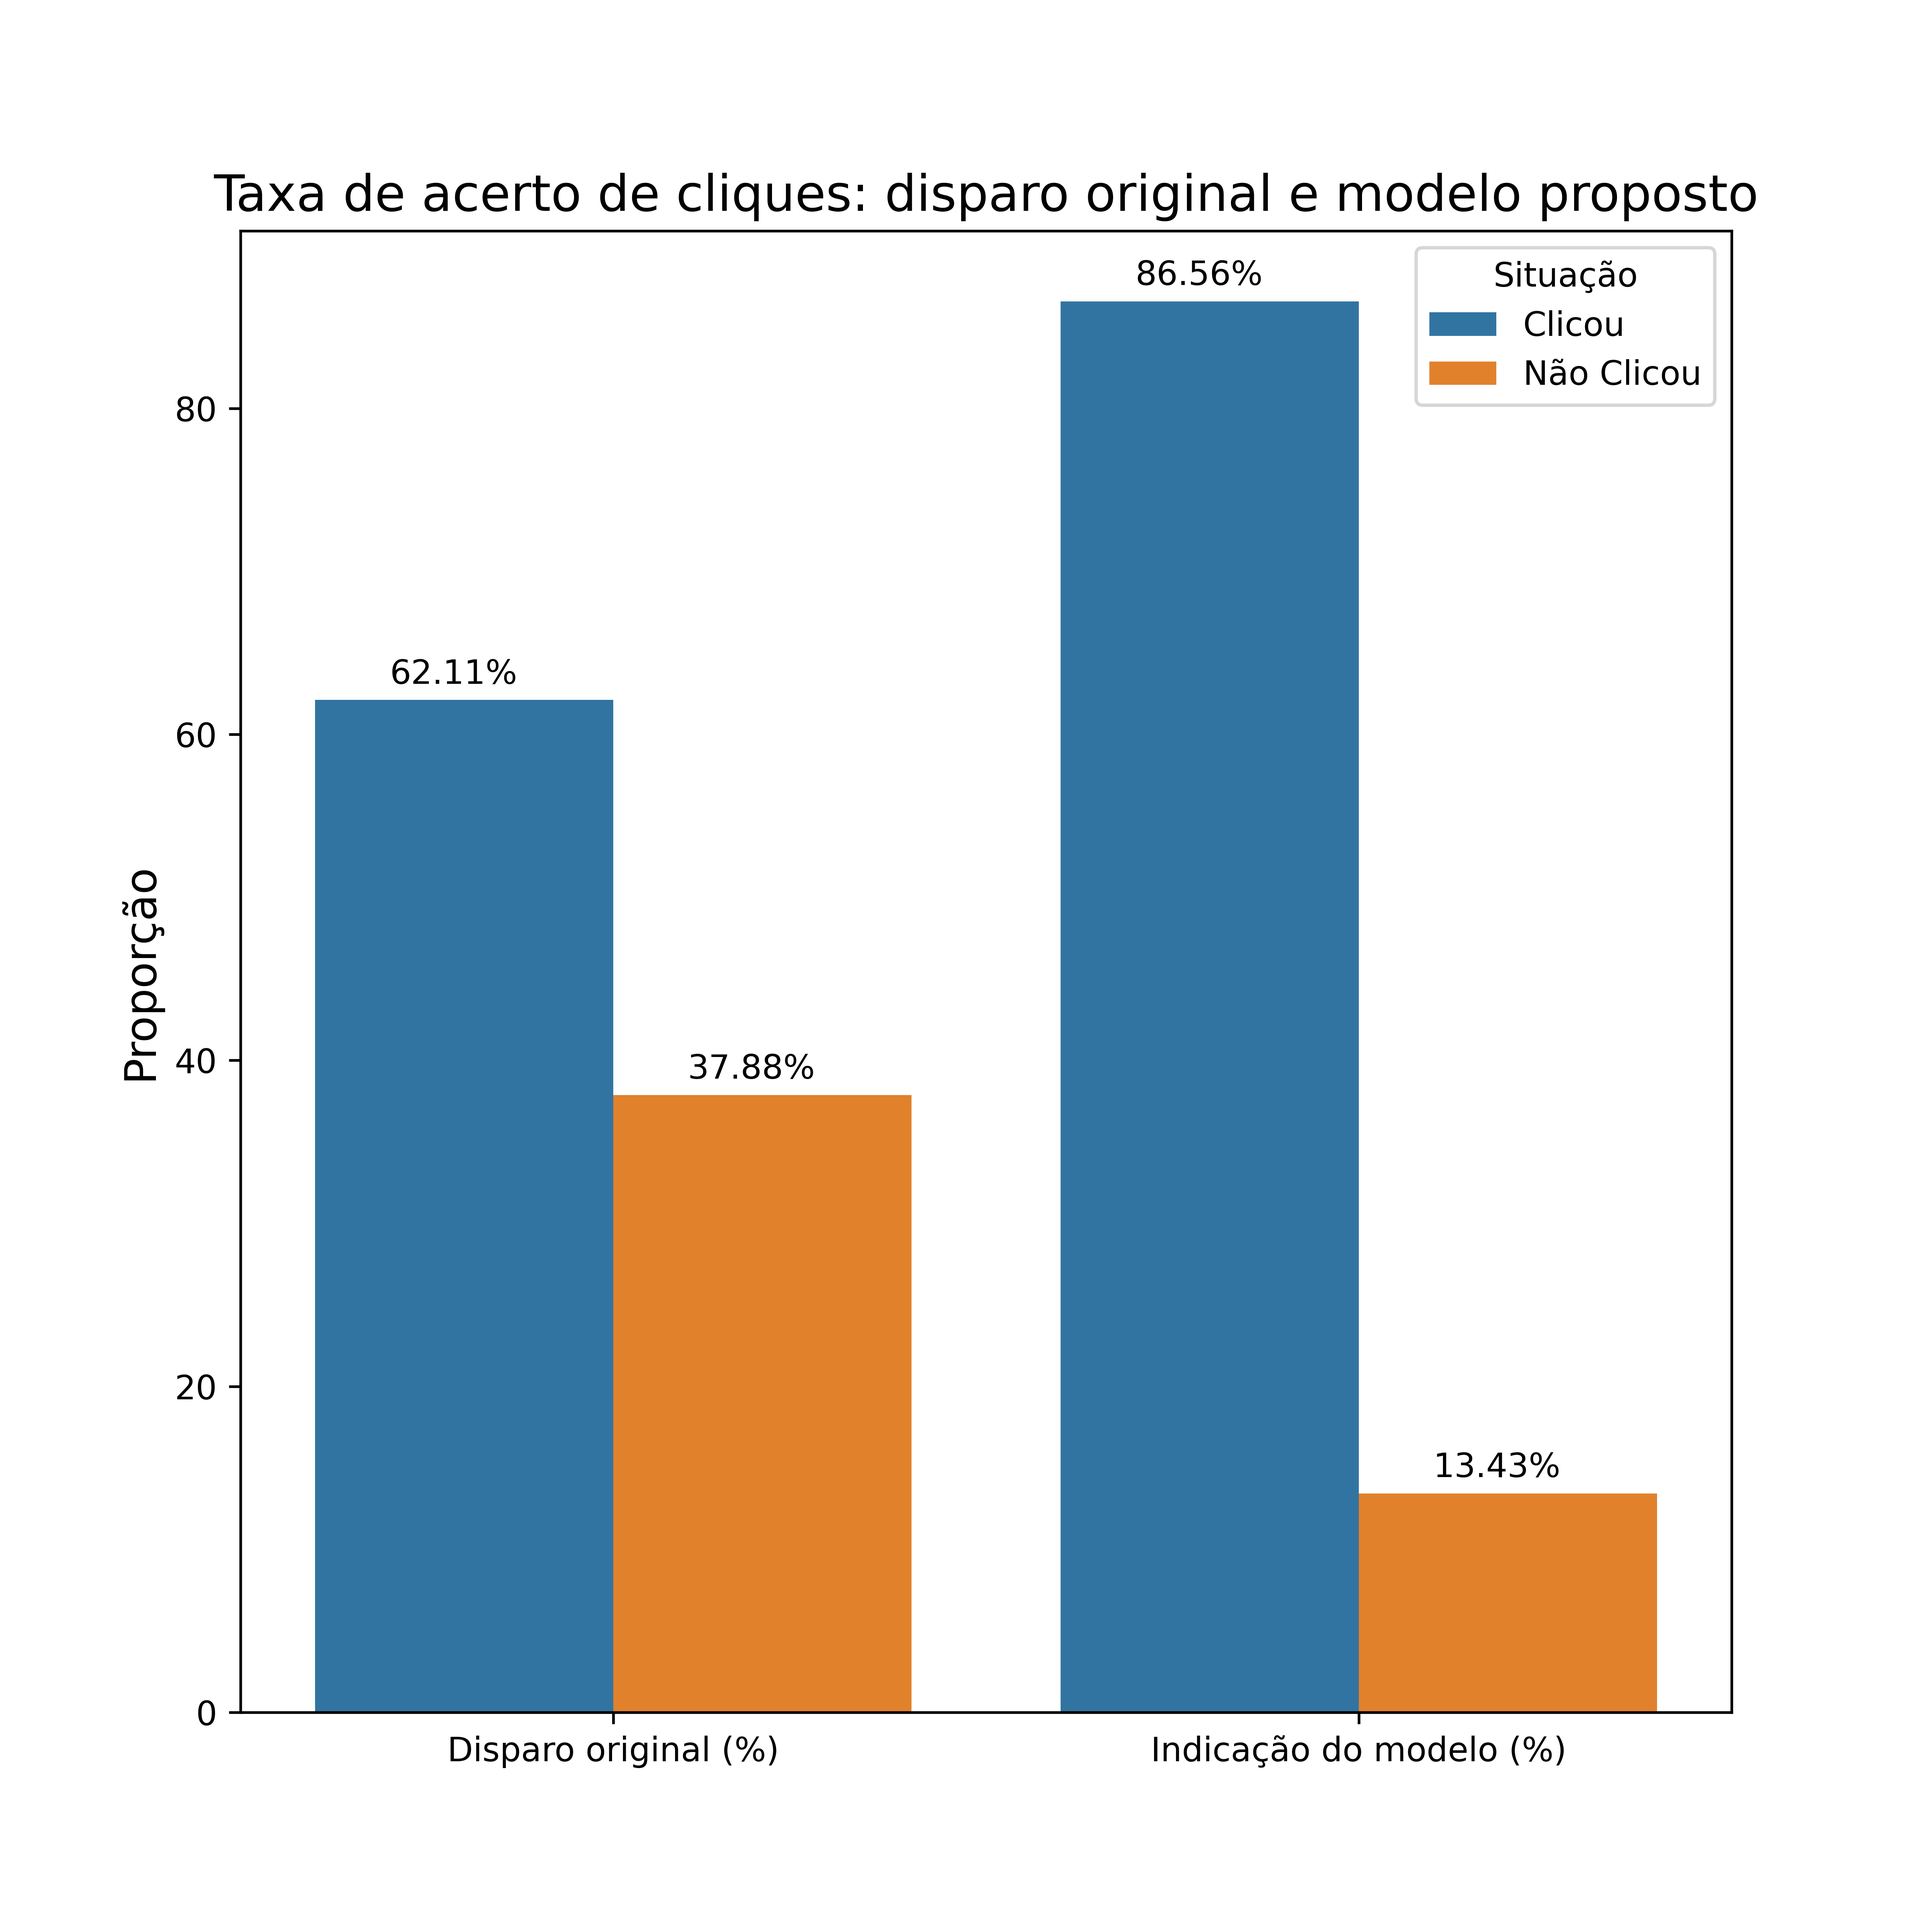
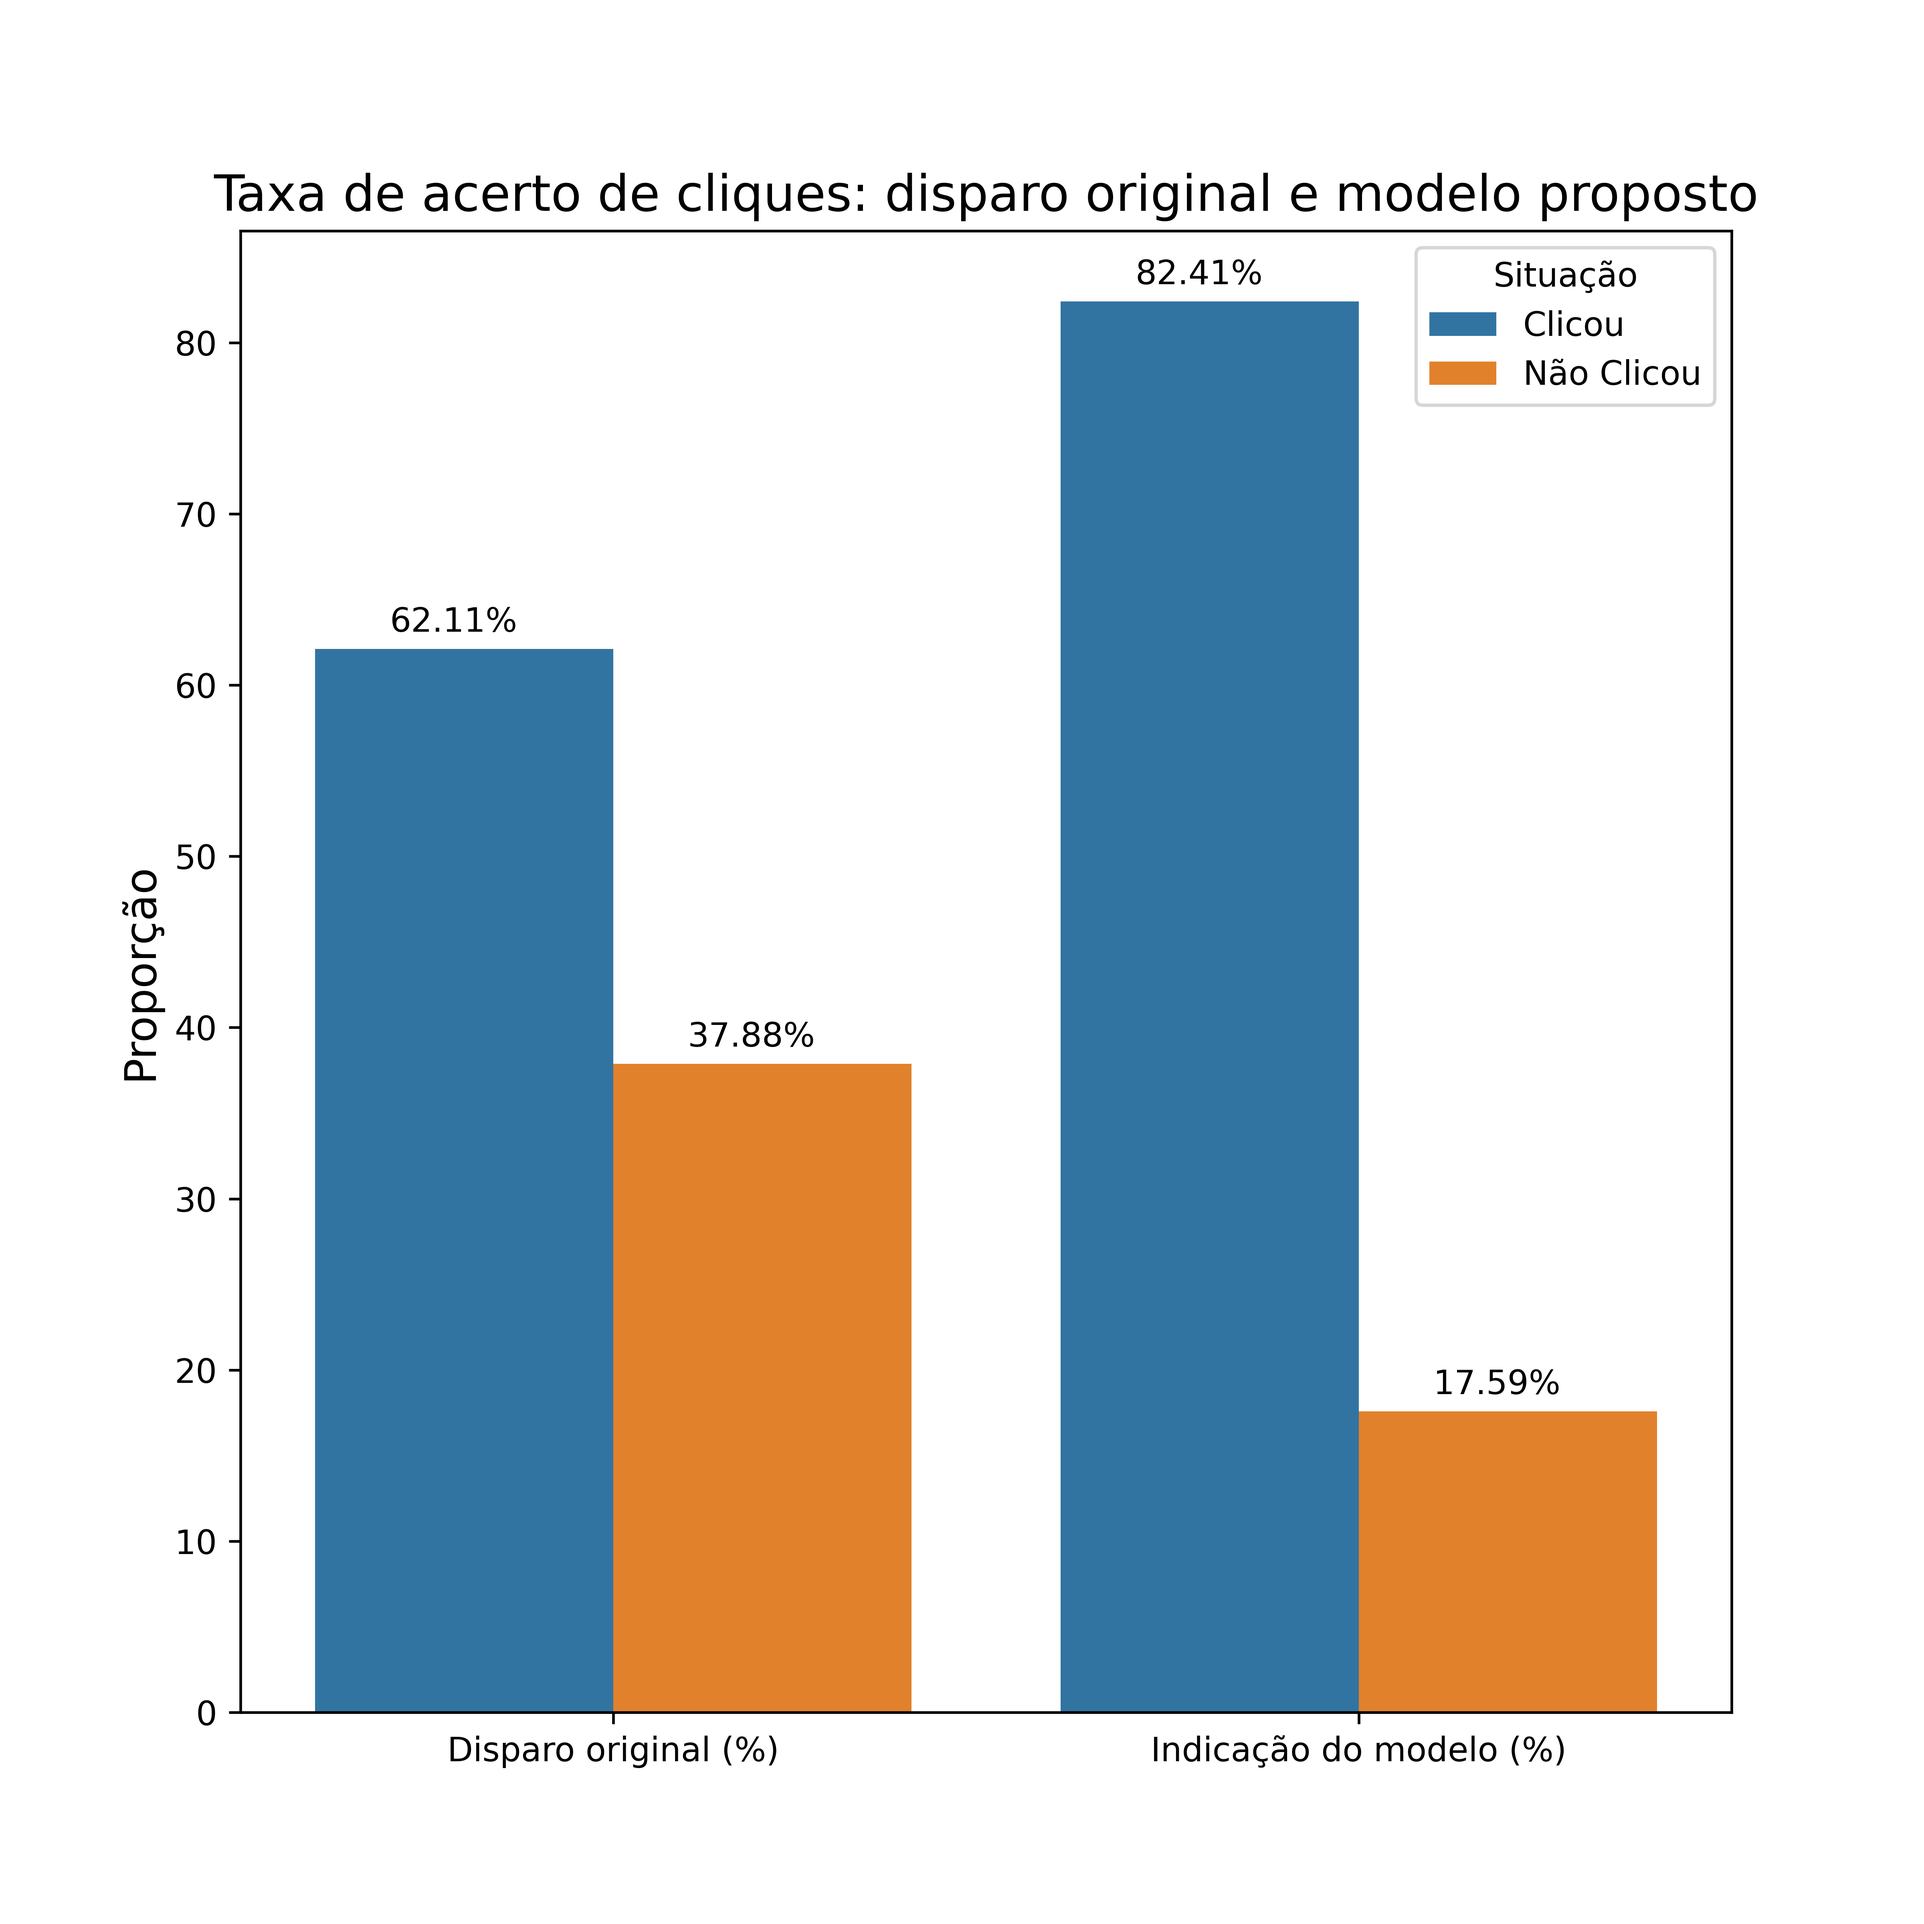
Corrigindo métrica equivocada Corrige valor errado da métrica Muda valor em vários arquivos

diff --git a/main/05-conclusao/05-conclusao.py b/main/05-conclusao/05-conclusao.py
@@ -5,9 +5,9 @@ import matplotlib.pyplot as plt
 import seaborn as sns
 
 #relacao dos desempenhos
-data = [['Clicou',50650,62.11,8769,86.56],
-        ['Não Clicou',30892,37.88,1361,13.43],
-        ['Total',81542,100,10130,100]]
+data = [['Clicou',50650,62.11,7227,82.41],
+        ['Não Clicou',30892,37.88,1542,17.59],
+        ['Total',81542,100,8769,100]]
 
 resumo = pd.DataFrame(data,columns=['Situação','Disparo original','Disparo original (%)',
                       'Indicação do modelo','Indicação do modelo (%)'])
@@ -27,8 +27,8 @@ sns.barplot(resumo_perc,
 
 plt.annotate('62.11%',xy=(-0.30,63.11)) #clicou
 plt.annotate('37.88%',xy=(0.10,38.88)) #n_clicou
-plt.annotate('86.56%',xy=(0.70,87.56)) #clicou
-plt.annotate('13.43%',xy=(1.10,14.43)) #n_clicou
+plt.annotate('82.41%',xy=(0.70,83.41)) #clicou
+plt.annotate('17.59%',xy=(1.10,18.59)) #n_clicou
 
 plt.xlabel('')
 plt.ylabel('Proporção',size=13)

diff --git a/main/05-conclusao/README.md b/main/05-conclusao/README.md
@@ -1,6 +1,6 @@
 # Parte 5 - Comparando o modelo final com a performance original da empresa
 
-Como dito anteriormente, a base usada advém de uma tentativa anterior de disparo de anúncios que não usava uma estratégia em dados. Logo, todos os casos foram considerados como possíveis cliques mas apenas 62% deles clicaram. Com as sugestões do nosso modelo usando uma Árvore de Decisão, cerca de 86% dos usuários que indicamos o anúncio clicaram nele, um aumento percentual da taxa de acerto de 38%.
+Como dito anteriormente, a base usada advém de uma tentativa anterior de disparo de anúncios que não usava uma estratégia em dados. Logo, todos os casos foram considerados como possíveis cliques mas apenas 62% deles clicaram. Com as sugestões do nosso modelo usando uma Árvore de Decisão, cerca de 83% dos usuários que indicamos o anúncio clicaram nele, um aumento percentual da taxa de acerto de 33%.
 
 ![barras_desempenho](../../outputs/result_modelo.png)
 
